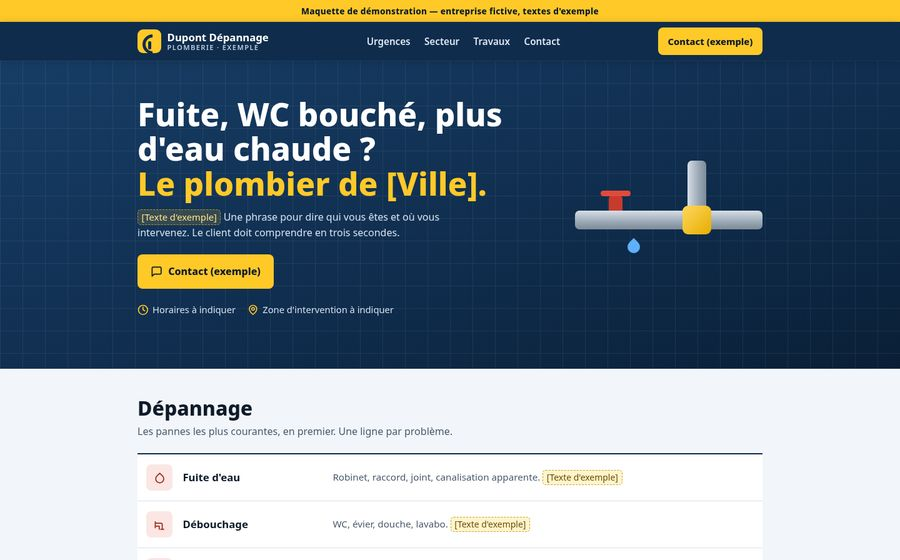
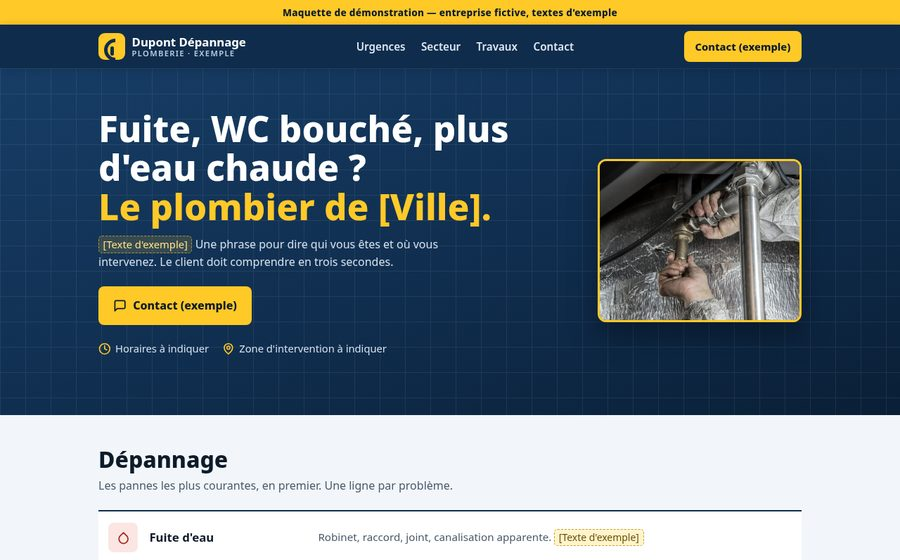
Vraies photos sur l'accueil et les maquettes, crédits photos

diff --git a/demo-coiffeur.html b/demo-coiffeur.html
@@ -46,9 +46,8 @@ header.top{position:sticky;top:0;z-index:10;background:rgba(251,247,243,.94);bac
 .hero p{color:var(--muted);margin-bottom:1.8rem;max-width:26rem}
 .arch{position:relative;aspect-ratio:4/5;max-width:360px;width:100%;justify-self:center}
 .arch .shape{position:absolute;inset:0;border-radius:200px 200px 24px 24px;background:linear-gradient(180deg,#d9b48a 0%,#a8576a 60%,#5f2632 100%);box-shadow:0 30px 60px -20px rgba(95,38,50,.45)}
-.arch .shape::after{content:"";position:absolute;inset:14px;border-radius:186px 186px 14px 14px;border:1.5px solid rgba(255,255,255,.55)}
+.arch img.shape{display:block;width:100%;height:100%;object-fit:cover}
 .arch .circle{position:absolute;right:-12px;top:30px;width:84px;height:84px;border-radius:50%;background:var(--gold);opacity:.85}
-.arch .tag{position:absolute;left:-8px;bottom:26px;background:#fff;border-radius:12px;padding:.6rem .9rem;box-shadow:0 10px 30px rgba(0,0,0,.12);font-size:.85rem;font-family:var(--serif);font-style:italic}
 
 section{padding:4rem 0}
 h2{font-family:var(--serif);font-weight:400;font-size:clamp(1.8rem,5vw,2.6rem);line-height:1.15;margin-bottom:.8rem}
@@ -56,7 +55,10 @@ h2{font-family:var(--serif);font-weight:400;font-size:clamp(1.8rem,5vw,2.6rem);l
 /* Univers : mosaïque asymétrique */
 .mosaic{display:grid;grid-template-columns:1fr 1fr;gap:.8rem}
 .tile{border-radius:18px;min-height:150px;position:relative;display:flex;align-items:flex-end;padding:.8rem;color:#fff;font-size:.88rem}
-.tile span{background:rgba(0,0,0,.32);padding:.2rem .6rem;border-radius:999px}
+.tile{overflow:hidden;margin:0}
+.tile img{position:absolute;inset:0;width:100%;height:100%;object-fit:cover}
+.tile figcaption{position:relative;z-index:1}
+.tile span{background:rgba(0,0,0,.55);padding:.2rem .7rem;border-radius:999px}
 .tile.big{grid-column:span 2;min-height:240px;background:linear-gradient(135deg,#d9a7a0,#8a3b4a)}
 .t2{background:radial-gradient(circle at 30% 30%,#f3d7a6,#b07a3e 70%)}
 .t3{background:linear-gradient(200deg,#3b2a2f,#8a5a68)}
@@ -138,10 +140,9 @@ footer strong{color:var(--gold)}
         <p><span class="ph">[Texte d'exemple]</span> Une ligne sur l'esprit du salon.</p>
         <a class="btn btn-primary" href="#contact">Prendre rendez-vous (exemple)</a>
       </div>
-      <div class="arch" aria-hidden="true">
-        <div class="circle"></div>
-        <div class="shape"></div>
-        <div class="tag">Photo du salon à venir</div>
+      <div class="arch">
+        <div class="circle" aria-hidden="true"></div>
+        <img class="shape" src="assets/photos/coiffure-salon.jpg" width="960" height="1200" loading="lazy" decoding="async" alt="Salon de coiffure lumineux et vide : fauteuils, grands miroirs et lustre en cristal">
       </div>
     </div>
   </section>
@@ -150,12 +151,12 @@ footer strong{color:var(--gold)}
     <div class="container">
       <h2 id="univers-title">L'univers</h2>
       <div class="mosaic">
-        <div class="tile big" role="img" aria-label="Emplacement photo : couleur"><span>Couleur</span></div>
-        <div class="tile t2" role="img" aria-label="Emplacement photo : blond"><span>Blond</span></div>
-        <div class="tile t3" role="img" aria-label="Emplacement photo : coupe"><span>Coupe</span></div>
-        <div class="tile t4" role="img" aria-label="Emplacement photo : boucles"><span>Boucles</span></div>
+        <figure class="tile big"><img src="assets/photos/coiffure-pinceaux-couleur.jpg" width="1200" height="900" loading="lazy" decoding="async" alt="Pinceaux de coloration, peignes et ciseaux noirs posés sur un fond blanc"><figcaption><span>Couleur</span></figcaption></figure>
+        <figure class="tile t2"><img src="assets/photos/coiffure-cheveux-blonds.jpg" width="800" height="800" loading="lazy" decoding="async" alt="Mains tenant un peigne et des ciseaux au-dessus d'une mèche de cheveux blonds"><figcaption><span>Blond</span></figcaption></figure>
+        <figure class="tile t3"><img src="assets/photos/coiffure-ciseaux.jpg" width="900" height="600" loading="lazy" decoding="async" alt="Plusieurs paires de ciseaux de coiffure alignées sur une serviette grise"><figcaption><span>Coupe</span></figcaption></figure>
+        <figure class="tile t4"><img src="assets/photos/coiffure-fer-a-boucler.jpg" width="1200" height="600" loading="lazy" decoding="async" alt="Fer à boucler et brosse ronde posés sur une serviette rose"><figcaption><span>Boucles</span></figcaption></figure>
       </div>
-      <p class="caption">Emplacements d'images : les photos du salon prendront leur place.</p>
+      <p class="caption">Photos d'illustration issues de Pexels : le salon les remplacera par les siennes.</p>
     </div>
   </section>
 
@@ -191,7 +192,7 @@ footer strong{color:var(--gold)}
 
 <footer>
   <div class="container">
-    <p><strong>Site de démonstration</strong> — Salon Éclat est un salon fictif. Textes et visuels sont des exemples. © <span id="y">2026</span></p>
+    <p><strong>Site de démonstration</strong> — Salon Éclat est un salon fictif. Textes et visuels sont des exemples ; photos d'illustration issues de Pexels (crédits dans les <a href="mentions-legales.html#credits-photos" style="color:var(--gold)">mentions légales</a>). © <span id="y">2026</span></p>
   </div>
 </footer>
 

diff --git a/demo-artisan.html b/demo-artisan.html
@@ -41,7 +41,7 @@ header.top{position:sticky;top:0;z-index:10;background:var(--navy);color:#fff;bo
 .btn-y:hover{background:var(--yellow-dark)}
 .btn-sm{padding:.5rem .85rem;min-height:44px;font-size:.92rem}
 
-/* Hero : court, une seule colonne + schéma tuyau */
+/* Hero : court, texte + photo */
 .hero{position:relative;overflow:hidden;color:#fff;padding:2.6rem 0 2.8rem;background:linear-gradient(160deg,var(--navy-2),var(--navy) 60%,#0a1f36)}
 .hero::before{content:"";position:absolute;inset:0;opacity:.07;background-image:linear-gradient(#fff 1px,transparent 1px),linear-gradient(90deg,#fff 1px,transparent 1px);background-size:36px 36px}
 .hero .container{position:relative;display:grid;gap:2rem;align-items:center}
@@ -52,13 +52,6 @@ header.top{position:sticky;top:0;z-index:10;background:var(--navy);color:#fff;bo
 .facts{display:flex;flex-wrap:wrap;gap:.5rem 1.2rem;margin-top:1.4rem;font-size:.92rem;color:#e7eef6}
 .facts span{display:inline-flex;align-items:center;gap:.4rem}
 .facts .ico{color:var(--yellow)}
-.pipe{position:relative;width:min(300px,70vw);height:170px;justify-self:center}
-.pipe .h{position:absolute;left:0;right:0;top:80px;height:30px;border-radius:7px;background:linear-gradient(180deg,#d7dee6,#9aa8b6 60%,#7d8b99)}
-.pipe .v{position:absolute;left:60%;top:0;width:30px;height:100px;border-radius:7px;background:linear-gradient(90deg,#d7dee6,#9aa8b6 60%,#7d8b99)}
-.pipe .j{position:absolute;left:calc(60% - 8px);top:72px;width:46px;height:46px;border-radius:9px;background:linear-gradient(135deg,#ffd75e,#e6ad00)}
-.pipe .vl{position:absolute;left:18%;top:56px;width:22px;height:24px;background:#c73a2c;border-radius:5px 5px 0 0}
-.pipe .vl::before{content:"";position:absolute;left:-13px;top:-8px;width:48px;height:9px;border-radius:5px;background:#e14b3b}
-.pipe .d{position:absolute;left:28%;top:128px;width:20px;height:20px;background:#5fb0ff;border-radius:0 50% 50% 50%;transform:rotate(45deg)}
 
 section{padding:2.8rem 0}
 h2{font-size:clamp(1.45rem,4.5vw,2rem);line-height:1.15;font-weight:800;margin-bottom:.4rem}
@@ -79,7 +72,8 @@ h2{font-size:clamp(1.45rem,4.5vw,2rem);line-height:1.15;font-weight:800;margin-b
 .sect{display:grid;gap:1.6rem;align-items:center}
 .radar{position:relative;width:min(220px,60vw);aspect-ratio:1;justify-self:center;border-radius:50%;
   background:radial-gradient(circle,transparent 0 30%,rgba(255,255,255,.18) 30.5% 31%,transparent 31.5% 62%,rgba(255,255,255,.16) 62.5% 63%,transparent 63.5%),radial-gradient(circle,#1b4877,#0f2c4c 70%)}
-.radar .c{position:absolute;left:50%;top:50%;width:16px;height:16px;border-radius:50%;background:var(--yellow);transform:translate(-50%,-50%);box-shadow:0 0 0 8px rgba(255,201,40,.25)}
+.radar{display:block;height:auto;object-fit:cover;border:6px solid rgba(255,255,255,.14);box-shadow:0 0 0 2px var(--yellow)}
+.hero-img{display:block;width:100%;max-width:440px;height:auto;aspect-ratio:5/4;object-fit:cover;justify-self:center;border-radius:12px;border:3px solid var(--yellow);box-shadow:0 18px 40px rgba(0,0,0,.35)}
 
 /* Autres travaux : simple liste en ligne */
 .tags{display:flex;flex-wrap:wrap;gap:.5rem;list-style:none}
@@ -156,7 +150,7 @@ body>footer strong{color:var(--yellow)}
         <a class="btn btn-y" href="#contact"><svg class="ico" aria-hidden="true"><use href="#i-msg"/></svg>Contact (exemple)</a>
         <p class="facts"><span><svg class="ico" aria-hidden="true"><use href="#i-clock"/></svg>Horaires à indiquer</span><span><svg class="ico" aria-hidden="true"><use href="#i-pin"/></svg>Zone d'intervention à indiquer</span></p>
       </div>
-      <div class="pipe" aria-hidden="true"><div class="v"></div><div class="h"></div><div class="j"></div><div class="vl"></div><div class="d"></div></div>
+      <img class="hero-img" src="assets/photos/plomberie-raccord-tuyau.jpg" width="1000" height="800" loading="lazy" decoding="async" alt="Mains gantées serrant un raccord en laiton sur un tuyau métallique, sous un plafond isolé">
     </div>
   </section>
 
@@ -180,7 +174,7 @@ body>footer strong{color:var(--yellow)}
         <p class="sub" style="margin-bottom:.6rem">Basé à <span class="ph">Adresse de l'entreprise</span>.</p>
         <p class="sub" style="margin-bottom:0">Communes desservies : <span class="ph">à indiquer</span></p>
       </div>
-      <div class="radar" role="img" aria-label="Schéma illustratif d'une zone d'intervention"><span class="c"></span></div>
+      <img class="radar" src="assets/photos/plomberie-robinet.jpg" width="800" height="800" loading="lazy" decoding="async" alt="Robinet chromé raccordé à un tuyau bleu, sur un mur clair">
     </div>
   </section>
 
@@ -212,7 +206,7 @@ body>footer strong{color:var(--yellow)}
 
 <footer>
   <div class="container">
-    <p><strong>Site de démonstration.</strong> Dupont Dépannage Plomberie est une entreprise fictive. Les textes sont des exemples à remplacer. © <span id="y">2026</span></p>
+    <p><strong>Site de démonstration.</strong> Dupont Dépannage Plomberie est une entreprise fictive. Les textes sont des exemples à remplacer. Photos d'illustration issues de Pexels (crédits dans les <a href="mentions-legales.html#credits-photos" style="color:#ffe08a">mentions légales</a>). © <span id="y">2026</span></p>
   </div>
 </footer>
 

diff --git a/mentions-legales.html b/mentions-legales.html
@@ -57,7 +57,19 @@ Directeur de la publication : Anis</p>
 <h2>Hébergeur</h2>
 <p>Nom : <span class="todo">[à compléter]</span><br>Adresse : <span class="todo">[à compléter]</span><br>Téléphone : <span class="todo">[à compléter]</span></p>
 <h2>Propriété intellectuelle</h2>
-<p>Les textes, illustrations et éléments graphiques de ce site sont la propriété d'AW Création Web, sauf mention contraire. Toute reproduction sans autorisation est interdite.</p>
+<p>Les textes, illustrations et éléments graphiques de ce site sont la propriété d'AW Création Web, sauf mention contraire (voir « Crédits photos »). Toute reproduction sans autorisation est interdite.</p>
+<h2 id="credits-photos">Crédits photos</h2>
+<p>Les photos du site et des maquettes sont des photos d'illustration issues de Pexels, utilisées selon la <a href="https://www.pexels.com/fr-fr/license/">licence Pexels</a> (usage gratuit, y compris commercial, sans attribution obligatoire). Elles ne montrent ni des clients ni des réalisations d'AW Création Web.</p>
+<ul class="credits">
+<li>Ordinateur portable affichant un site web sur un bureau en bois (accueil) : Thirdman — <a href="https://www.pexels.com/photo/laptop-on-a-wooden-table-with-the-design-business-website-on-the-screen-7181184/">Pexels</a>, licence Pexels</li>
+<li>Raccord de tuyau (maquette plomberie) : Anıl Karakaya — <a href="https://www.pexels.com/photo/plumber-installs-pipe-fittings-6419128/">Pexels</a>, licence Pexels</li>
+<li>Robinet et tuyau bleu (maquette plomberie) : Nothing Ahead — <a href="https://www.pexels.com/photo/faucet-connected-with-blue-pipe-4494662/">Pexels</a>, licence Pexels</li>
+<li>Salon de coiffure (maquette coiffure) : Marina Chocobar — <a href="https://www.pexels.com/photo/empty-armchairs-in-the-room-7823407/">Pexels</a>, licence Pexels</li>
+<li>Pinceaux de coloration et ciseaux (maquette coiffure) : Nataliya Vaitkevich — <a href="https://www.pexels.com/photo/black-handled-scissors-beside-stainless-steel-scissors-8468129/">Pexels</a>, licence Pexels</li>
+<li>Peigne, ciseaux et cheveux blonds (maquette coiffure) : cottonbro studio — <a href="https://www.pexels.com/photo/a-person-holding-scissors-and-green-comb-7253877/">Pexels</a>, licence Pexels</li>
+<li>Ciseaux de coiffure (maquette coiffure) : Pavel Danilyuk — <a href="https://www.pexels.com/photo/close-up-hair-cutting-tools-7518712/">Pexels</a>, licence Pexels</li>
+<li>Fer à boucler et brosse (maquette coiffure) : RDNE Stock project — <a href="https://www.pexels.com/photo/hairdresser-tools-on-the-table-7755512/">Pexels</a>, licence Pexels</li>
+</ul>
 <h2 id="confidentialite">Politique de confidentialité</h2>
 <p><strong>Responsable du traitement :</strong> Anis (AW Création Web), joignable à <a href="mailto:anis.creation.sites@gmail.com">anis.creation.sites@gmail.com</a>.</p>
 <p><strong>Données collectées :</strong> uniquement celles que vous transmettez volontairement par e-mail.</p>

diff --git a/index.html b/index.html
@@ -87,7 +87,7 @@
 <p class="lead">Un site vitrine de 1 à 2 pages, à partir de 75 €. Il s'affiche bien sur mobile. Je le conçois et je le mets en ligne.</p>
 <div><div class="actions"><a class="btn btn-primary" href="mailto:anis.creation.sites@gmail.com"><svg class="i" viewBox="0 0 24 24" aria-hidden="true" style="fill:none;stroke:currentColor;stroke-width:2;stroke-linejoin:round;stroke-linecap:round"><rect x="3" y="5" width="18" height="14" rx="2"/><path d="m3.5 6.5 8.5 6.5 8.5-6.5"/></svg><span>Écrire un e-mail</span></a></div></div>
 </div>
-<svg class="hero-art" viewBox="0 0 600 220" role="img" aria-label="Illustration : un même site affiché sur ordinateur, tablette et mobile"><g fill="none" style="stroke:var(--fg)" stroke-width="2"><rect x="40" y="20" width="300" height="180" rx="10"/><rect x="380" y="50" width="120" height="150" rx="10"/><rect x="530" y="90" width="56" height="110" rx="9"/></g><g style="fill:var(--accent)"><rect x="64" y="50" width="120" height="10" rx="5"/><rect x="404" y="74" width="60" height="8" rx="4"/><rect x="540" y="108" width="34" height="6" rx="3"/></g><g style="fill:var(--line)"><rect x="64" y="74" width="220" height="6" rx="3"/><rect x="64" y="88" width="190" height="6" rx="3"/><rect x="64" y="120" width="80" height="50" rx="6"/><rect x="156" y="120" width="80" height="50" rx="6"/><rect x="248" y="120" width="68" height="50" rx="6"/><rect x="404" y="92" width="72" height="5" rx="2.5"/><rect x="404" y="116" width="72" height="60" rx="6"/><rect x="540" y="122" width="34" height="4" rx="2"/><rect x="540" y="136" width="34" height="44" rx="4"/></g></svg>
+<figure class="hero-photo"><img src="assets/photos/accueil-ordinateur-site-vitrine.jpg" width="1600" height="1067" loading="lazy" decoding="async" alt="Ordinateur portable posé sur un bureau en bois clair, affichant la page produits d'une boutique en ligne, à côté d'un gobelet de café (photo d'illustration, ce n'est pas un site réalisé par AW Création Web)"></figure>
 </div></section>
 <section class="rule" aria-labelledby="ess-t"><div class="wrap split">
 <div><h2 id="ess-t">Ce que vous recevez</h2></div>
